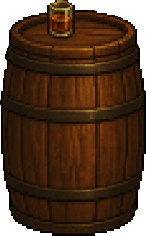
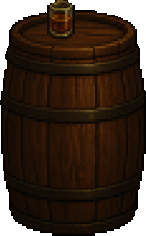
Nugget: darken the whiskey barrel
Tyler, 2026-11-01: "It's too bright. Please darken it so it fits in
better." Matched to the bar front's mean it was still lit evenly top to
bottom; tools/art/darken-prop.py takes it to 0.7 with its base falling to
0.7, chosen from 0.8, 0.7 and 0.6 rendered in the room.

Claude-Session: https://claude.ai/code/session_01FXbCus2Hm36NL2YuHFGB8T

diff --git a/tools/art/darken-prop.py b/tools/art/darken-prop.py
@@ -1,0 +1,29 @@
+"""Darken a graded prop so it sits in its room.
+
+Tyler, 2026-11-01, on the Nugget's whiskey barrel: "It's too bright. Please
+darken it so it fits in better." Graded to the bar front it matched that
+surface's mean (39 against 38) and still read bright beside the stools and
+Deke: it was lit evenly top to bottom, where everything standing on that
+floor falls into shadow toward its base. So two things, both darkening:
+
+  1. BRIGHTNESS: every opaque pixel times BRIGHTNESS.
+  2. FALLOFF: a further multiply ramping from 1 at the top of the sheet to
+     BASE at the bottom row, the shade a thing standing on the floor gathers
+     round its foot.
+
+Alpha is untouched, so the edge the cut made is the edge that ships.
+
+Usage: darken-prop.py <graded.png> <out.png> <brightness> <base>
+"""
+import sys
+import numpy as np
+from PIL import Image
+
+src, out = sys.argv[1], sys.argv[2]
+brightness, base = float(sys.argv[3]), float(sys.argv[4])
+a = np.asarray(Image.open(src).convert('RGBA')).astype(float)
+h = a.shape[0]
+ramp = (1 - (1 - base) * (np.arange(h) / max(1, h - 1)))[:, None, None]
+a[..., :3] = np.clip(a[..., :3] * brightness * ramp, 0, 255)
+Image.fromarray(np.round(a).astype(np.uint8), 'RGBA').save(out)
+print(f'{src} -> {out}: brightness {brightness}, base {base}')
